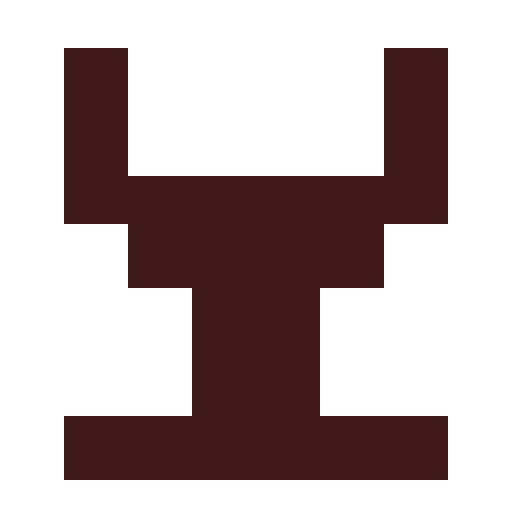
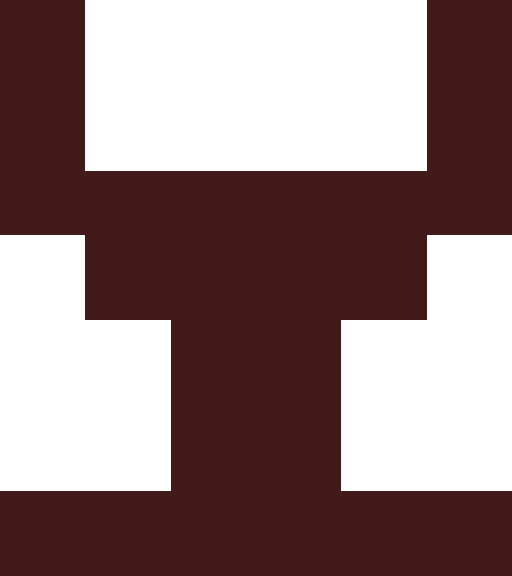
More sprites and add item to shrine

diff --git a/game.cpp b/game.cpp
@@ -64,25 +64,27 @@ void Game::initWindow() {
 void Game::initItems() {
     Item* redShrine = new Item(ItemType::RED_SHRINE,
                                sf::Vector2f(650, 550),
-                               sf::Vector2(0.25f, 0.5f),
+                               sf::Vector2(0.25f, 0.25f),
                                true,
                                false);
 
     Item* blueRectangle = new Item(ItemType::BLUE_RECTANGLE,
-                               sf::Vector2f(200, 800),
-                               sf::Vector2(0.25f, 0.5f),
+                               sf::Vector2f(200, 1000),
+                               sf::Vector2(0.25f, 0.25f),
                                    true,
                                true);
 
     Item* completedRedShrine = new Item(ItemType::RED_SHRINE_COMPLETE,
                                         sf::Vector2f(650, 550),
-                                        sf::Vector2(0.25f, 0.5f),
+                                        sf::Vector2(0.25f, 0.25f),
                                         false,
                                         false);
 
     items.push_back(redShrine);
     items.push_back(blueRectangle);
     items.push_back(completedRedShrine);
+
+    itemMap.emplace(redShrine, completedRedShrine);
 }
 
 void Game::pollEvents() {
@@ -185,20 +187,23 @@ bool Game::shouldRobotMove(const RobotMovingDirection movingDirection) {
 
     // If robot is near an item, it cannot move into it
     for (Item* item : items) {
-        sf::Sprite itemSprite = item->getItemSprite();
-        const sf::Rect<float> itemGlobalBounds = itemSprite.getGlobalBounds();
 
-        //itemSprite.getGlobalBounds().left = 280
-        //itemSprite.getGlobalBounds().top = 180
-        //itemSprite.getGlobalBounds().height = 256
-        //itemSprite.getGlobalBounds().width = 128
+        if (item->isVisible()) {
+            sf::Sprite itemSprite = item->getItemSprite();
+            const sf::Rect<float> itemGlobalBounds = itemSprite.getGlobalBounds();
 
-        //TODO this is utter shite need to update
-        Robot movedRobot = robot;
-        movedRobot.move(movingDirection);
+            //itemSprite.getGlobalBounds().left = 280
+            //itemSprite.getGlobalBounds().top = 180
+            //itemSprite.getGlobalBounds().height = 256
+            //itemSprite.getGlobalBounds().width = 128
 
-        if (movedRobot.getRobotSprite().getGlobalBounds().intersects(itemGlobalBounds)) {
-            return false;
+            //TODO this is utter shite need to update
+            Robot movedRobot = robot;
+            movedRobot.move(movingDirection);
+
+            if (movedRobot.getRobotSprite().getGlobalBounds().intersects(itemGlobalBounds)) {
+                return false;
+            }
         }
     }
 
@@ -220,8 +225,6 @@ Item* Game::clickedOnItem() {
     // Determine if any clickable (visible and in-range) item was clicked on
     for (auto item : items) {
         if (isItemClickable(*item)) {
-            std::cout << "I'M CLICKABLE" << std::endl;
-
             const sf::Rect<float> itemBounds = item->getItemSprite().getGlobalBounds();
             if (itemBounds.contains(mousePosView)) {
                 return item;
@@ -232,18 +235,69 @@ Item* Game::clickedOnItem() {
     return nullptr;
 }
 
+bool nearIntersect(const sf::Rect<float>& rectangle1, sf::Rect<float> rectangle2);
+
 bool Game::isItemClickable(Item& item) {
-    return item.isVisible() &&
-        robot.getRobotSprite().getGlobalBounds().intersects(item.getItemSprite().getGlobalBounds());
+    if (!item.isVisible()) {
+        return false;
+    }
+
+    return nearIntersect(robot.getRobotSprite().getGlobalBounds(), item.getItemSprite().getGlobalBounds());
+}
+
+bool nearIntersect(const sf::Rect<float>& rectangle1, sf::Rect<float> rectangle2) {
+    // Rectangles with negative dimensions are allowed, so we must handle them correctly
+
+    // Compute the min and max of the first rectangle on both axes
+    float r1MinX = std::min(rectangle1.left, static_cast<float>(rectangle1.left + rectangle1.width));
+    float r1MaxX = std::max(rectangle1.left, static_cast<float>(rectangle1.left + rectangle1.width));
+    float r1MinY = std::min(rectangle1.top, static_cast<float>(rectangle1.top + rectangle1.height));
+    float r1MaxY = std::max(rectangle1.top, static_cast<float>(rectangle1.top + rectangle1.height));
+
+    // Compute the min and max of the second rectangle on both axes
+    float r2MinX = std::min(rectangle2.left, static_cast<float>(rectangle2.left + rectangle2.width));
+    float r2MaxX = std::max(rectangle2.left, static_cast<float>(rectangle2.left + rectangle2.width));
+    float r2MinY = std::min(rectangle2.top, static_cast<float>(rectangle2.top + rectangle2.height));
+    float r2MaxY = std::max(rectangle2.top, static_cast<float>(rectangle2.top + rectangle2.height));
+
+    // Compute the intersection boundaries
+    float interLeft = std::max(r1MinX, r2MinX);
+    float interTop = std::max(r1MinY, r2MinY);
+    float interRight = std::min(r1MaxX, r2MaxX) + 20;
+    float interBottom = std::min(r1MaxY, r2MaxY) + 20;
+
+    // If the intersection is valid (positive non zero area), then there is an intersection
+    if ((interLeft < interRight) && (interTop < interBottom)) {
+        return true;
+    }
+
+    return false;
 }
 
 void Game::updateItem(Item* item) {
     // If the clicked on item is carriable (a shrine piece) then pick it up
     if (item->canBeCarried()) {
         robot.pickUpItem(*item);
+        item->setVisible(false);
     } else {
         // If the clicked on item is a shrine and we are holding the correct piece, put it in shrine
-        item->updateSprite();
+        if (item->getItemType() == ItemType::RED_SHRINE) {
+
+            if (!robot.isHoldingItem()) {
+                return;
+            }
+
+            item->setVisible(false);
+            auto it = itemMap.find(item);
+
+            if (it != itemMap.end()) {
+                it->second->setVisible(true);
+            };
+        }
+        robot.holdItem(false);
+        robot.updateRobotSprite();
+
+        robot.setWin();
     }
 }
 

diff --git a/robot.cpp b/robot.cpp
@@ -26,6 +26,14 @@ sf::Sprite& Robot::getRobotSprite() {
 ///PUBLIC METHODS///
 ////////////////////
 
+bool Robot::isHoldingItem() {
+    return holdingItem;
+}
+
+void Robot::holdItem(bool isHoldingItem) {
+    holdingItem = isHoldingItem;
+}
+
 RobotFacingDirection Robot::getCurrentFacingDirection() {
     return robotFacingDirection;
 }
@@ -34,29 +42,87 @@ void Robot::updateFacingPosition(RobotMovingDirection movingDirection) {
     switch (movingDirection) {
         case RobotMovingDirection::RIGHT: {
             robotFacingDirection = RobotFacingDirection::RIGHT;
-            robotSprite.setTexture(robotRightTexture);
             break;
         }
         case RobotMovingDirection::LEFT: {
             robotFacingDirection = RobotFacingDirection::LEFT;
-            robotSprite.setTexture(robotLeftTexture);
             break;
         }
         case RobotMovingDirection::UP: {
             robotFacingDirection = RobotFacingDirection::BACK;
-            robotSprite.setTexture(robotBackTexture);
             break;
         }
         case RobotMovingDirection::DOWN: {
             robotFacingDirection = RobotFacingDirection::FRONT;
-            robotSprite.setTexture(robotFrontTexture);
+            break;
+        }
+    }
+
+    updateRobotSprite();
+}
+
+void Robot::updateRobotSprite() {
+    switch (robotFacingDirection) {
+        case RobotFacingDirection::RIGHT: {
+            if (isHoldingItem()) {
+                robotSprite.setTexture(robotRightItemTexture);
+            } else {
+                robotSprite.setTexture(robotRightTexture);
+            }
+
+            break;
+        }
+        case RobotFacingDirection::LEFT: {
+            if (isHoldingItem()) {
+                robotSprite.setTexture(robotLeftItemTexture);
+            } else {
+                robotSprite.setTexture(robotLeftTexture);
+            }
+
+            break;
+        }
+        case RobotFacingDirection::BACK: {
+            if (isHoldingItem()) {
+                robotSprite.setTexture(robotBackItemTexture);
+            } else {
+                robotSprite.setTexture(robotBackTexture);
+            }
+
+            break;
+        }
+        case RobotFacingDirection::FRONT: {
+            if (isHoldingItem()) {
+                robotSprite.setTexture(robotFrontItemTexture);
+            } else {
+                robotSprite.setTexture(robotFrontTexture);
+            }
+
             break;
         }
     }
 }
 
 void Robot::pickUpItem(Item &item) {
-    //TODO update robot sprite to carry item
+    switch (robotFacingDirection) {
+        case RobotFacingDirection::FRONT:
+            robotSprite.setTexture(robotFrontItemTexture);
+            break;
+        case RobotFacingDirection::BACK:
+            robotSprite.setTexture(robotBackItemTexture);
+            break;
+        case RobotFacingDirection::LEFT:
+            robotSprite.setTexture(robotLeftItemTexture);
+            break;
+        case RobotFacingDirection::RIGHT:
+            robotSprite.setTexture(robotRightItemTexture);
+            break;
+    }
+
+    holdItem(true);
+}
+
+void Robot::setWin() {
+    robotSprite.setTexture(robotWinTexture);
 }
 
 /////////////////////
@@ -74,6 +140,21 @@ void Robot::initSprite() {
         //return EXIT_FAILURE;
     }
     if (!robotRightTexture.loadFromFile("assets/robot_right.png")) {
+        //return EXIT_FAILURE;
+    }
+    if (robotFrontItemTexture.loadFromFile("assets/robot_front_with_blue_rect.png")) {
+        //return EXIT_FAILURE;
+    }
+    if (robotBackItemTexture.loadFromFile("assets/robot_back_with_blue_rect.png")) {
+        //return EXIT_FAILURE;
+    }
+    if (robotLeftItemTexture.loadFromFile("assets/robot_left_with_blue_rect.png")) {
+        //return EXIT_FAILURE;
+    }
+    if (robotRightItemTexture.loadFromFile("assets/robot_right_with_blue_rect.png")) {
+        //return EXIT_FAILURE;
+    }
+    if (robotWinTexture.loadFromFile("assets/robot_win.png")) {
         //return EXIT_FAILURE;
     }
 

diff --git a/robot.h b/robot.h
@@ -22,8 +22,13 @@ enum class RobotMovingDirection {
 class Robot {
 private:
     sf::Texture robotFrontTexture, robotBackTexture, robotLeftTexture, robotRightTexture;
+    sf::Texture robotFrontItemTexture, robotBackItemTexture, robotLeftItemTexture, robotRightItemTexture;
+    sf::Texture robotWinTexture;
     sf::Sprite robotSprite;
     RobotFacingDirection robotFacingDirection;
+
+    bool holdingItem;
+
     // Functions
     void initSprite();
 public:
@@ -32,9 +37,14 @@ public:
     virtual ~Robot();
     // Getters
     sf::Sprite& getRobotSprite();
+    bool isHoldingItem();
+    // Setters
+    void holdItem(bool isHoldingItem);
     // Functions
+    void setWin();
     RobotFacingDirection getCurrentFacingDirection();
     void updateFacingPosition(RobotMovingDirection movingDirection);
+    void updateRobotSprite();
     void move(RobotMovingDirection movingDirection);
     void pickUpItem(Item& item);
 };

diff --git a/item.cpp b/item.cpp
@@ -45,7 +45,6 @@ bool Item::canBeCarried() const {
 ////////////////////
 
 void Item::updateSprite() {
-
 }
 
 /////////////////////
@@ -68,10 +67,6 @@ std::string Item::getTextureFile() {
     switch (itemType) {
         case ItemType::RED_SHRINE:
             return "assets/red_shrine.png";
-        case ItemType::BLUE_SHRINE:
-            return "assets/blue_shrine.png";
-        case ItemType::YELLOW_SHRINE:
-            return "assets/yellow_shrine.png";
         case ItemType::BLUE_RECTANGLE:
             return "assets/blue_rectangle.png";
         case ItemType::RED_SHRINE_COMPLETE:

diff --git a/game.h b/game.h
@@ -5,6 +5,7 @@
 #include "item.h"
 #include <SFML/Graphics.hpp>
 #include "vector"
+#include "unordered_map"
 
 class Game {
 private:
@@ -18,6 +19,7 @@ private:
     // Game objects
     Robot robot;
     std::vector<Item*> items;
+    std::unordered_map<Item*, Item*> itemMap;
     // Functions
     void initWindow();
     void initItems();

diff --git a/item.h b/item.h
@@ -6,8 +6,6 @@
 //TODO make subclasses of item for the different types (carryable, interactable, etc)
 enum class ItemType {
     RED_SHRINE,
-    BLUE_SHRINE,
-    YELLOW_SHRINE,
     BLUE_RECTANGLE,
     RED_SHRINE_COMPLETE,
 };
